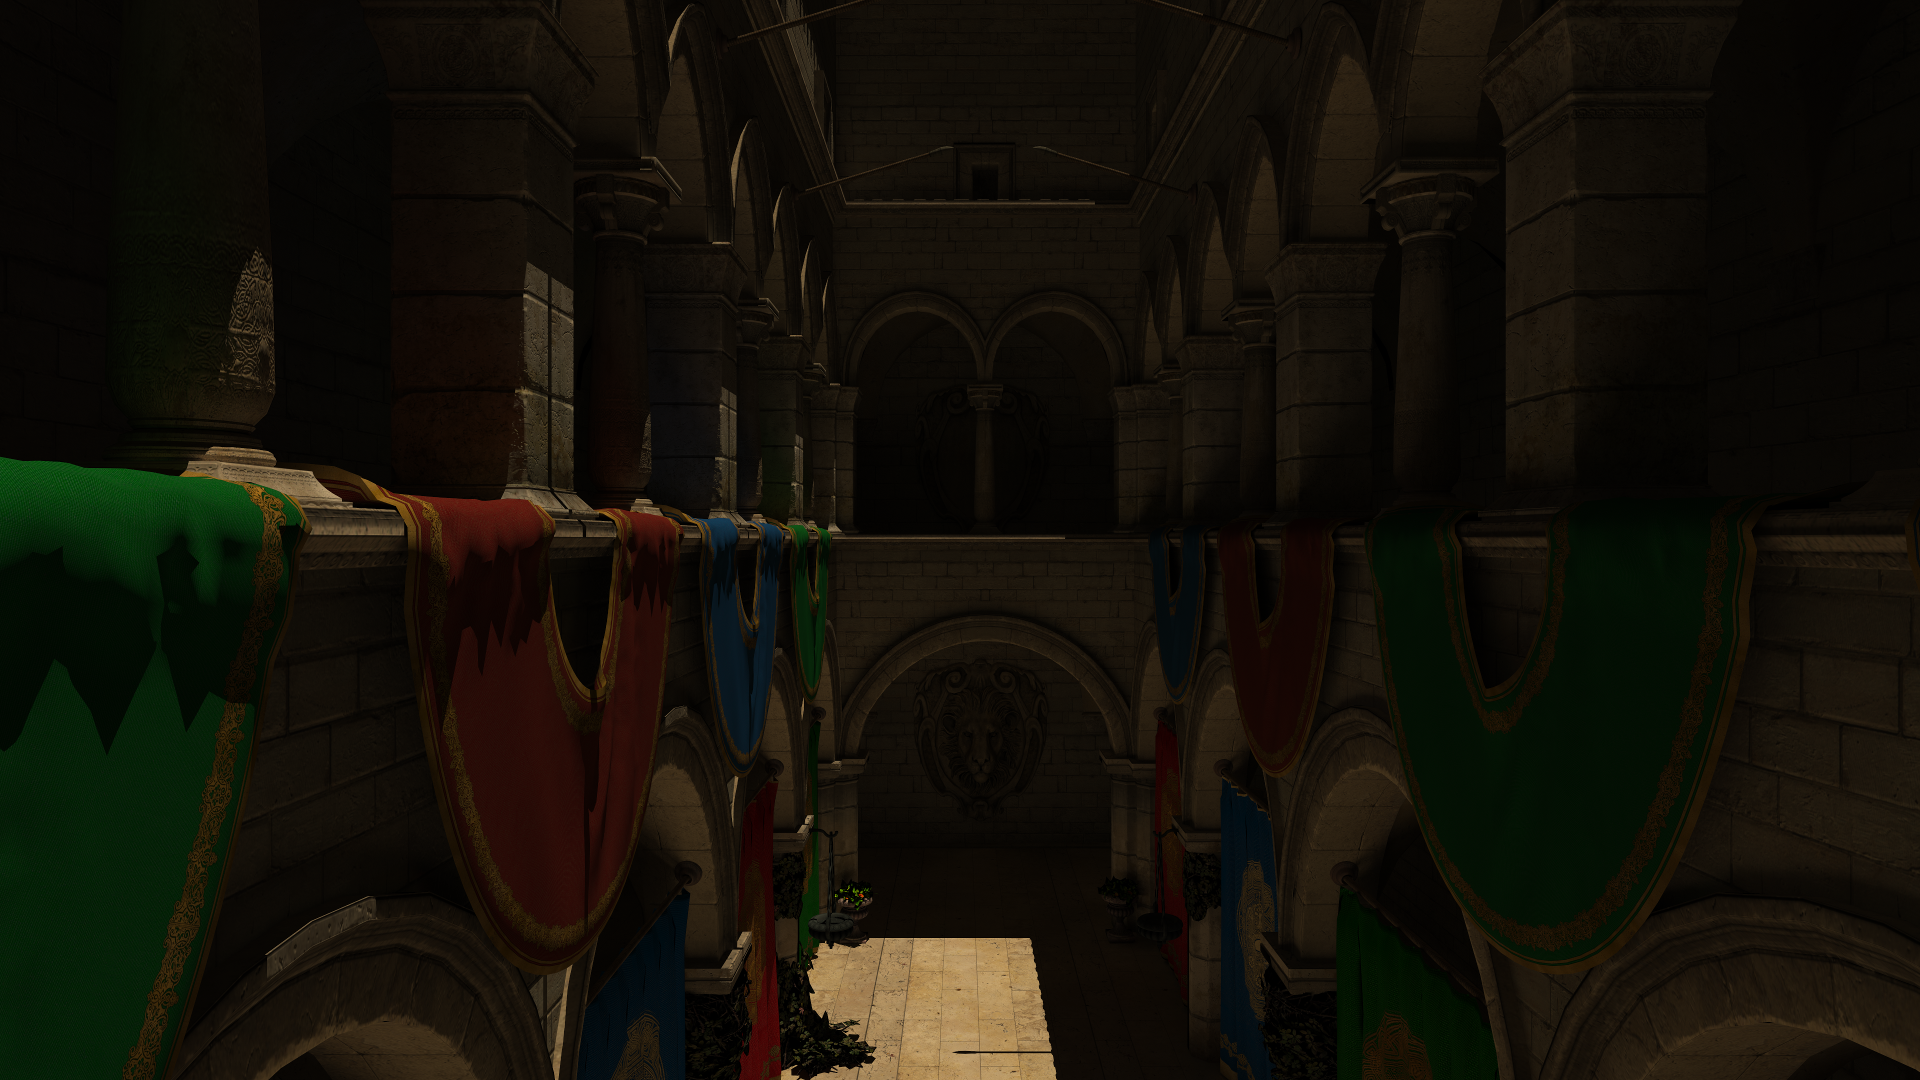
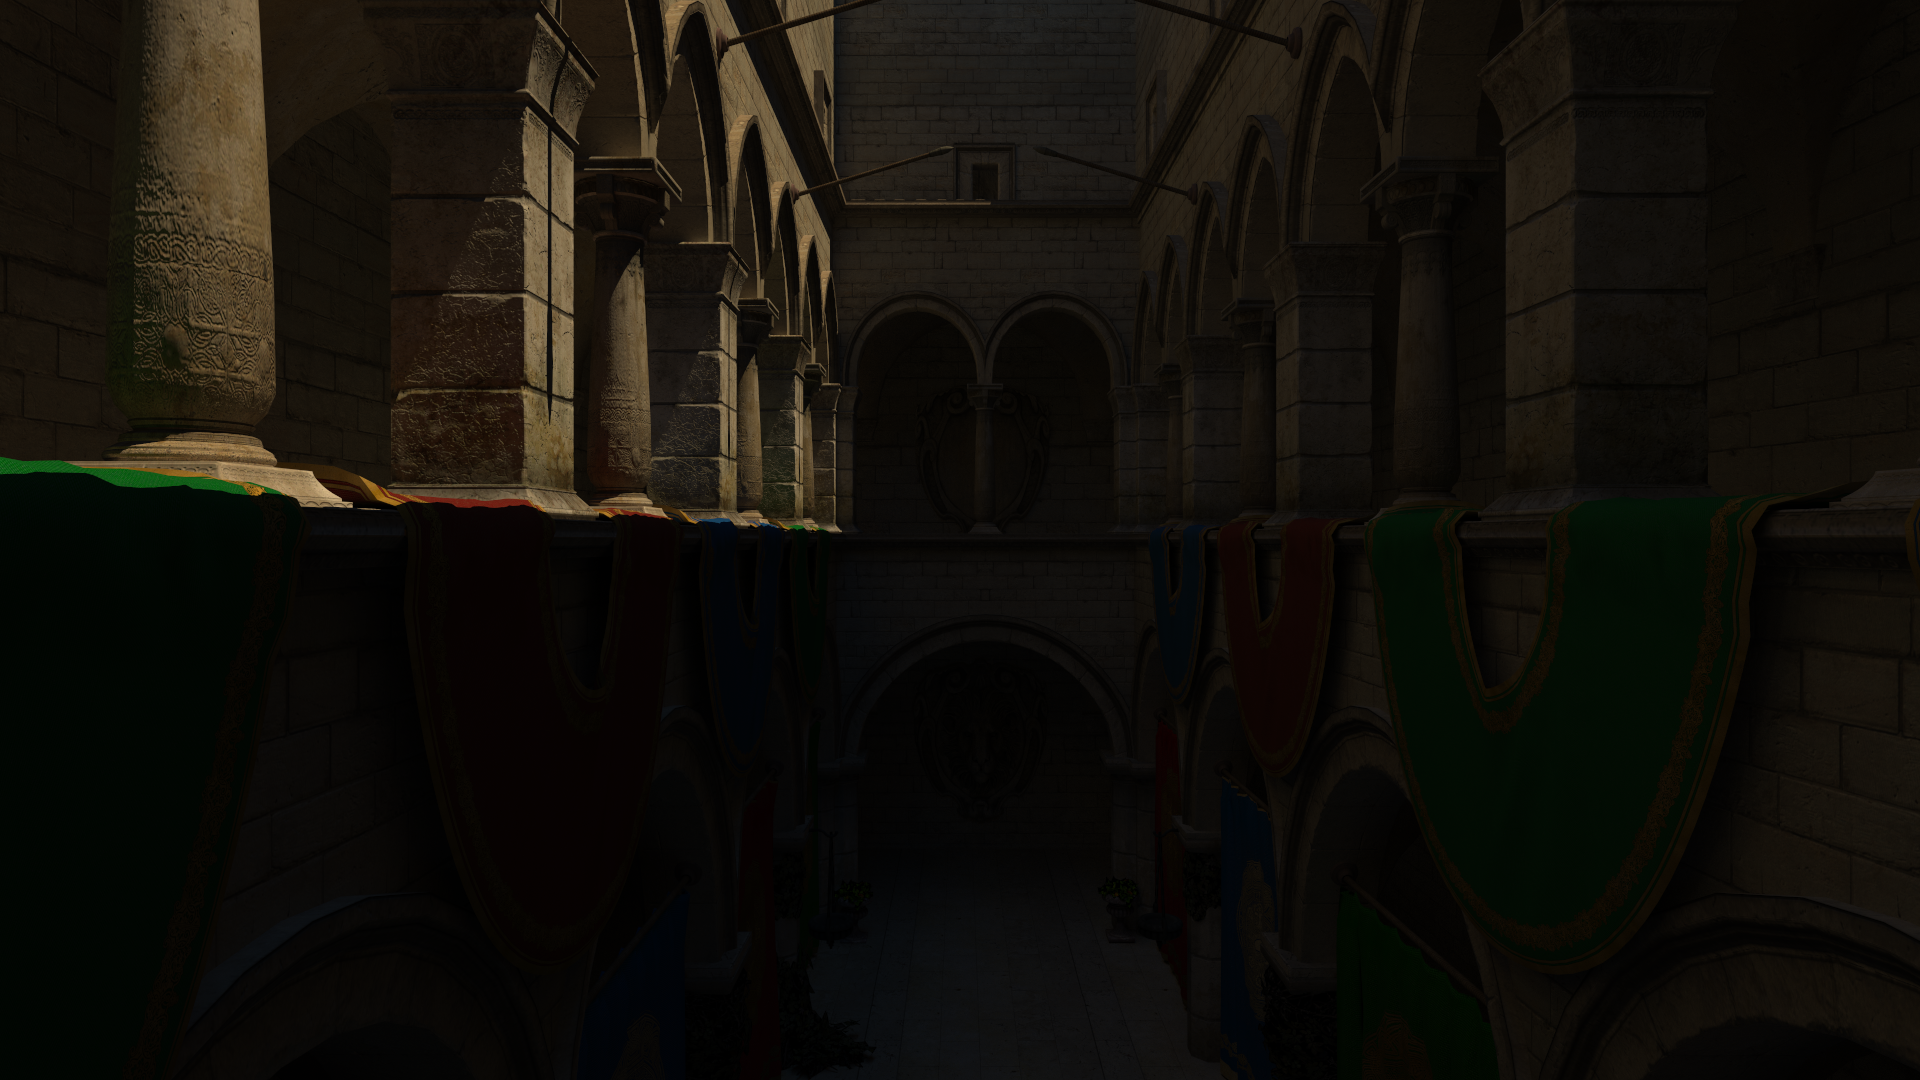
New images

diff --git a/README.md b/README.md
@@ -2,7 +2,7 @@
 ![Example scene](rasterized.png)
 *Rasterized image using TAA*
 ![Example scene](raytraced.png)
-*Ray traced image using 10000 samples with 5 bounces*
+*Ray traced image using 3000 samples with 5 bounces*
 ## Introduction
 This is a cross platform engine that is available on all major platforms including Linux, Windows and Android.
 ## Requirements
